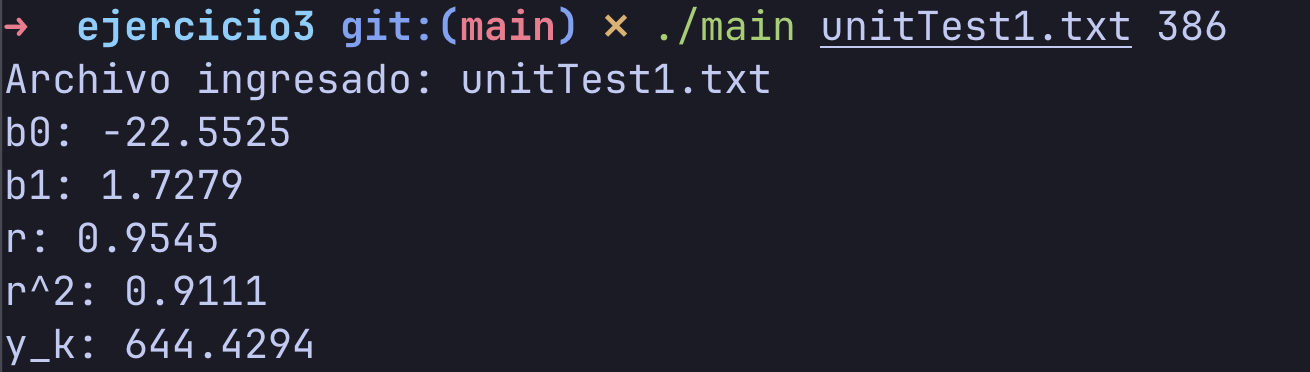
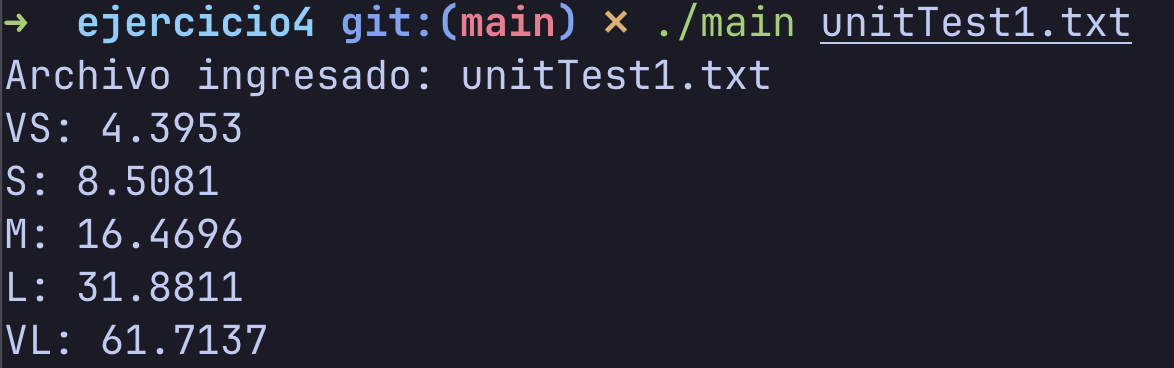
Ejercicio 4 entrega

diff --git a/ejercicio4/main.cpp b/ejercicio4/main.cpp
@@ -7,29 +7,26 @@ struct Data
 {
     float x;
     float y;
+    float n;
+    float ln;
 };
 
 Data parseLine(const std::string &line);
-float addX(const float &acc, const Data &data);
-float addY(const float &acc, const Data &data);
-float addXY(const float &acc, const Data &data);
-float addX2(const float &acc, const Data &data);
-float addY2(const float &acc, const Data &data);
+float addLN(const float &acc, const Data &data);
+float addLNminusAvgSquared(const float &acc, const Data &data, float avgLN);
 
 int main(int argc, char *argv[])
 {
     // Obtener el nombre del archivo por parametro
     const char *fname;
-    float x_k;
-    if (argc < 3)
+    if (argc < 2)
     {
-        std::cerr << "Usage: " << argv[0] << " <filename> <x_k>" << std::endl;
+        std::cerr << "Usage: " << argv[0] << " <filename>" << std::endl;
         exit(1);
     }
     else
     {
         fname = argv[1];
-        x_k = std::stof(argv[2]);
         printf("Archivo ingresado: %s\n", fname);
     }
 
@@ -38,33 +35,40 @@ int main(int argc, char *argv[])
     list.loadFromFile(fname, parseLine);
 
     // Procesar los datos
-    float sumX = list.reduce(addX, 0.0f);
-    float sumY = list.reduce(addY, 0.0f);
+    int count = list.count();
 
-    int n = list.count();
+    // Calcular meddia de valores ln(n)
+    float sumLN = list.reduce(addLN, 0.0f);
+    float avgLN = sumLN / count;
 
-    float avgX = sumX / n;
-    float avgY = sumY / n;
+    // Calcular varianza de ln(n)
+    float sumLNminusAvgSquared = list.reduce(addLNminusAvgSquared, 0.0f, avgLN);
+    float varianceLN = sumLNminusAvgSquared / (count - 1);
 
-    float sumXY = list.reduce(addXY, 0.0f);
-    float sumX2 = list.reduce(addX2, 0.0f);
-    float sumY2 = list.reduce(addY2, 0.0f);
+    // Calcular desviacion estandar de ln(n)
+    float stddevLN = sqrt(varianceLN);
 
-    float b1 = (sumXY - n * avgX * avgY) / (sumX2 - n * avgX * avgX);
-    float b0 = avgY - b1 * avgX;
+    // Calcular rangos logaritmicos
+    float lnVS = avgLN - 2 * stddevLN;
+    float lnS = avgLN - stddevLN;
+    float lnM = avgLN;
+    float lnL = avgLN + stddevLN;
+    float lnVL = avgLN + 2 * stddevLN;
 
-    float r = (n * sumXY - sumX * sumY) / sqrt((n * sumX2 - sumX * sumX) * (n * sumY2 - sumY * sumY));
-    float r2 = r * r;
-
-    float y_k = b0 + b1 * x_k;
+    // Calcular valores medios de cada rango
+    float VS = exp(lnVS);
+    float S = exp(lnS);
+    float M = exp(lnM);
+    float L = exp(lnL);
+    float VL = exp(lnVL);
 
     // Imprimir los resultados
     std::cout << std::fixed << std::setprecision(4);
-    std::cout << "b0: " << b0 << std::endl;
-    std::cout << "b1: " << b1 << std::endl;
-    std::cout << "r: " << r << std::endl;
-    std::cout << "r^2: " << r2 << std::endl;
-    std::cout << "y_k: " << y_k << std::endl;
+    std::cout << "VS: " << VS << std::endl;
+    std::cout << "S: " << S << std::endl;
+    std::cout << "M: " << M << std::endl;
+    std::cout << "L: " << L << std::endl;
+    std::cout << "VL: " << VL << std::endl;
 
     return 0;
 }
@@ -73,30 +77,20 @@ Data parseLine(const std::string &line)
 {
     Data data;
     sscanf(line.c_str(), "%f,%f", &data.x, &data.y);
+
+    data.n = data.x / data.y;
+    data.ln = log(data.n);
+
     return data;
 }
 
-float addX(const float &acc, const Data &data)
+float addLN(const float &acc, const Data &data)
 {
-    return acc + data.x;
+    return acc + data.ln;
 }
 
-float addY(const float &acc, const Data &data)
+float addLNminusAvgSquared(const float &acc, const Data &data, float avgLN)
 {
-    return acc + data.y;
-}
-
-float addXY(const float &acc, const Data &data)
-{
-    return acc + data.x * data.y;
-}
-
-float addX2(const float &acc, const Data &data)
-{
-    return acc + data.x * data.x;
-}
-
-float addY2(const float &acc, const Data &data)
-{
-    return acc + data.y * data.y;
+    float diff = data.ln - avgLN;
+    return acc + diff * diff;
 }

diff --git a/ejercicio4/hs/list.h b/ejercicio4/hs/list.h
@@ -141,14 +141,14 @@ public:
         file.close();
     };
 
-    template <typename U>
-    U reduce(U (*reduceFunc)(const U &, const T &), U initialValue)
+    template <typename U, typename... Args>
+    U reduce(U (*reduceFunc)(const U &, const T &, Args... args), U initialValue, Args... args)
     {
         U result = initialValue;
         Node *current = this->head;
         while (current)
         {
-            result = reduceFunc(result, current->data);
+            result = reduceFunc(result, current->data, args...);
             current = current->next;
         }
         return result;
